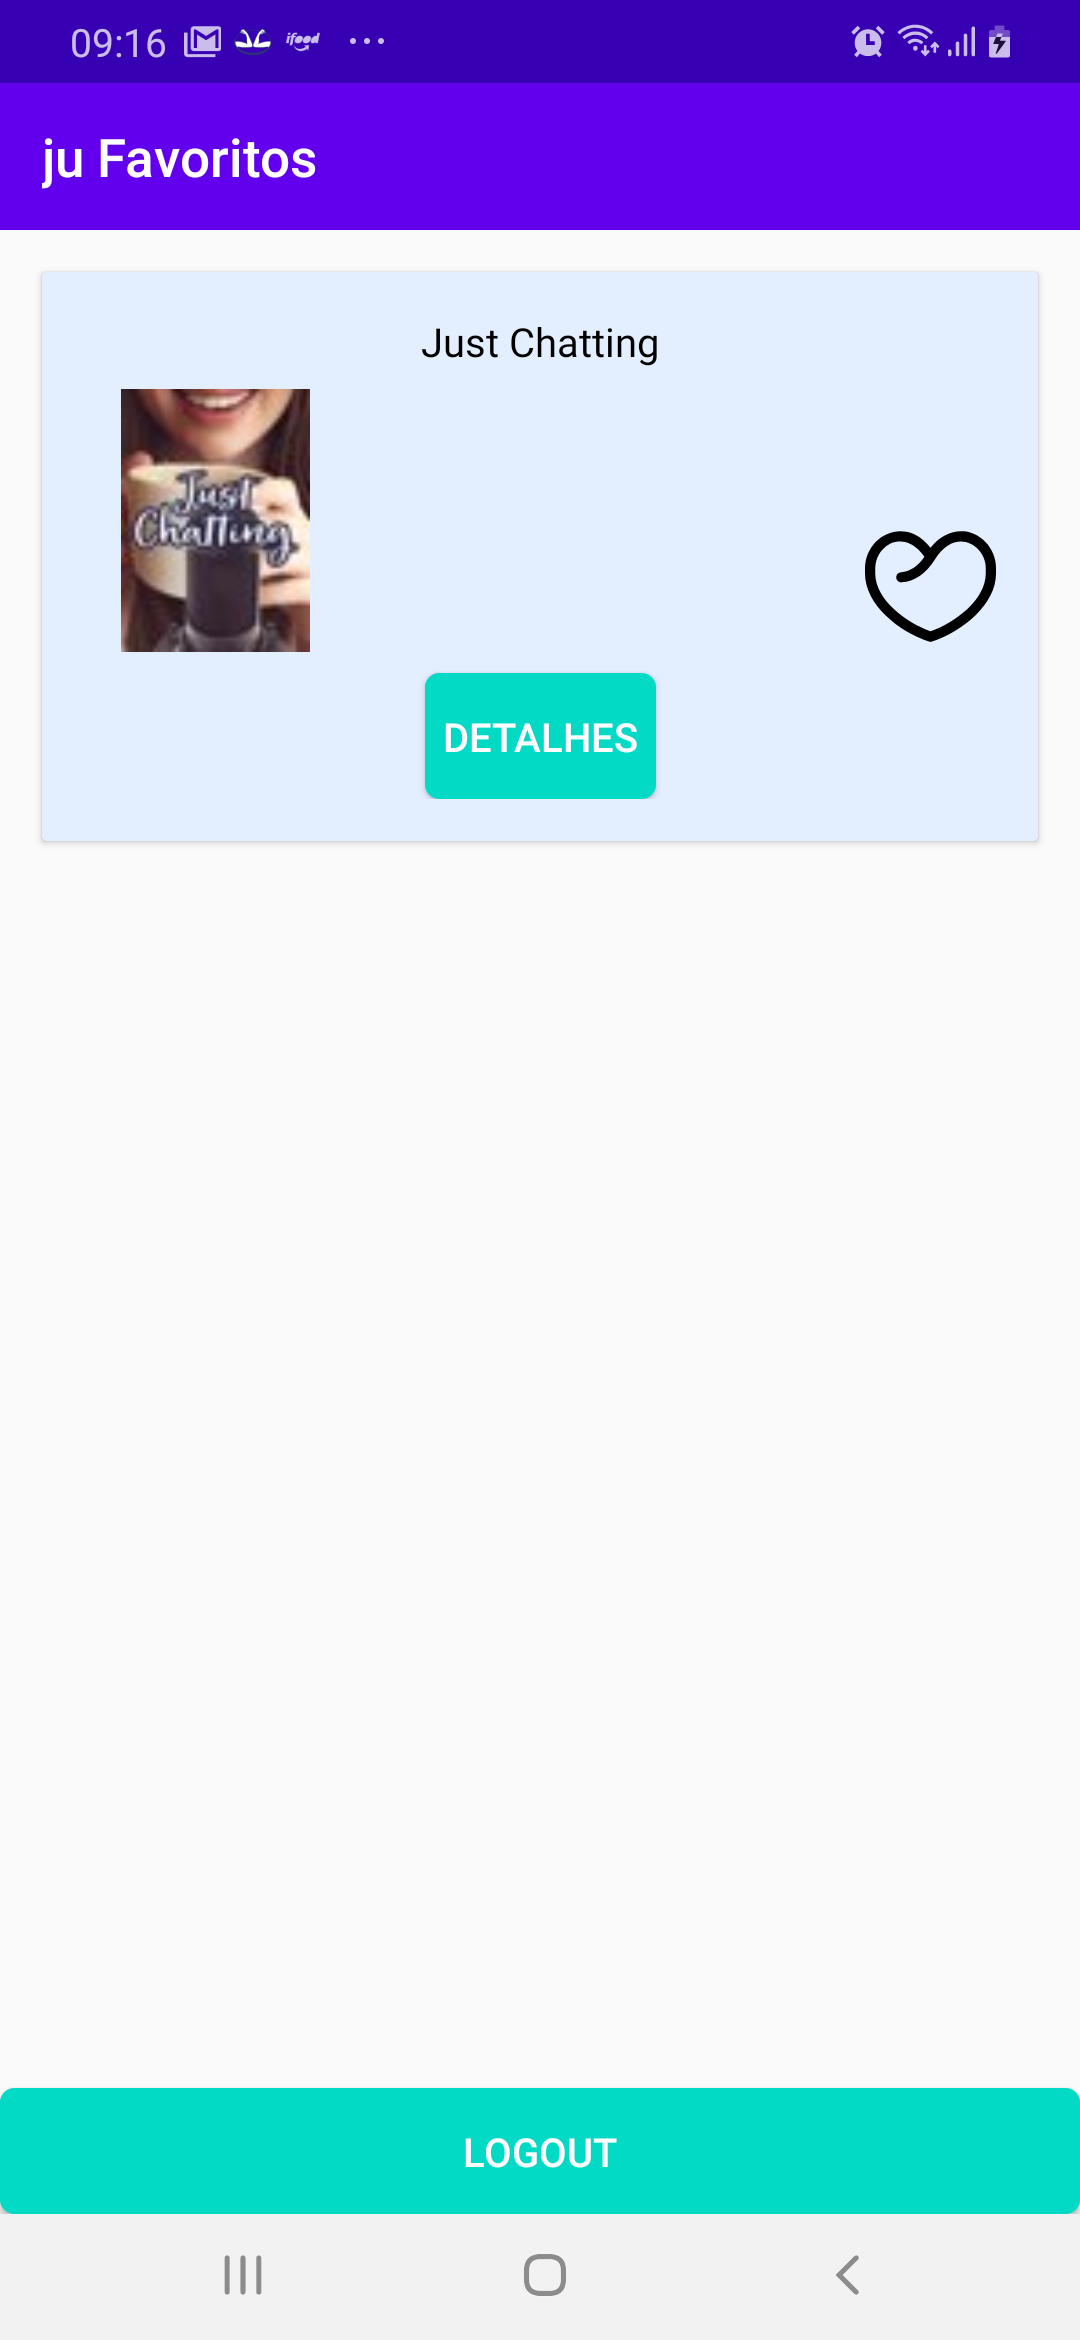
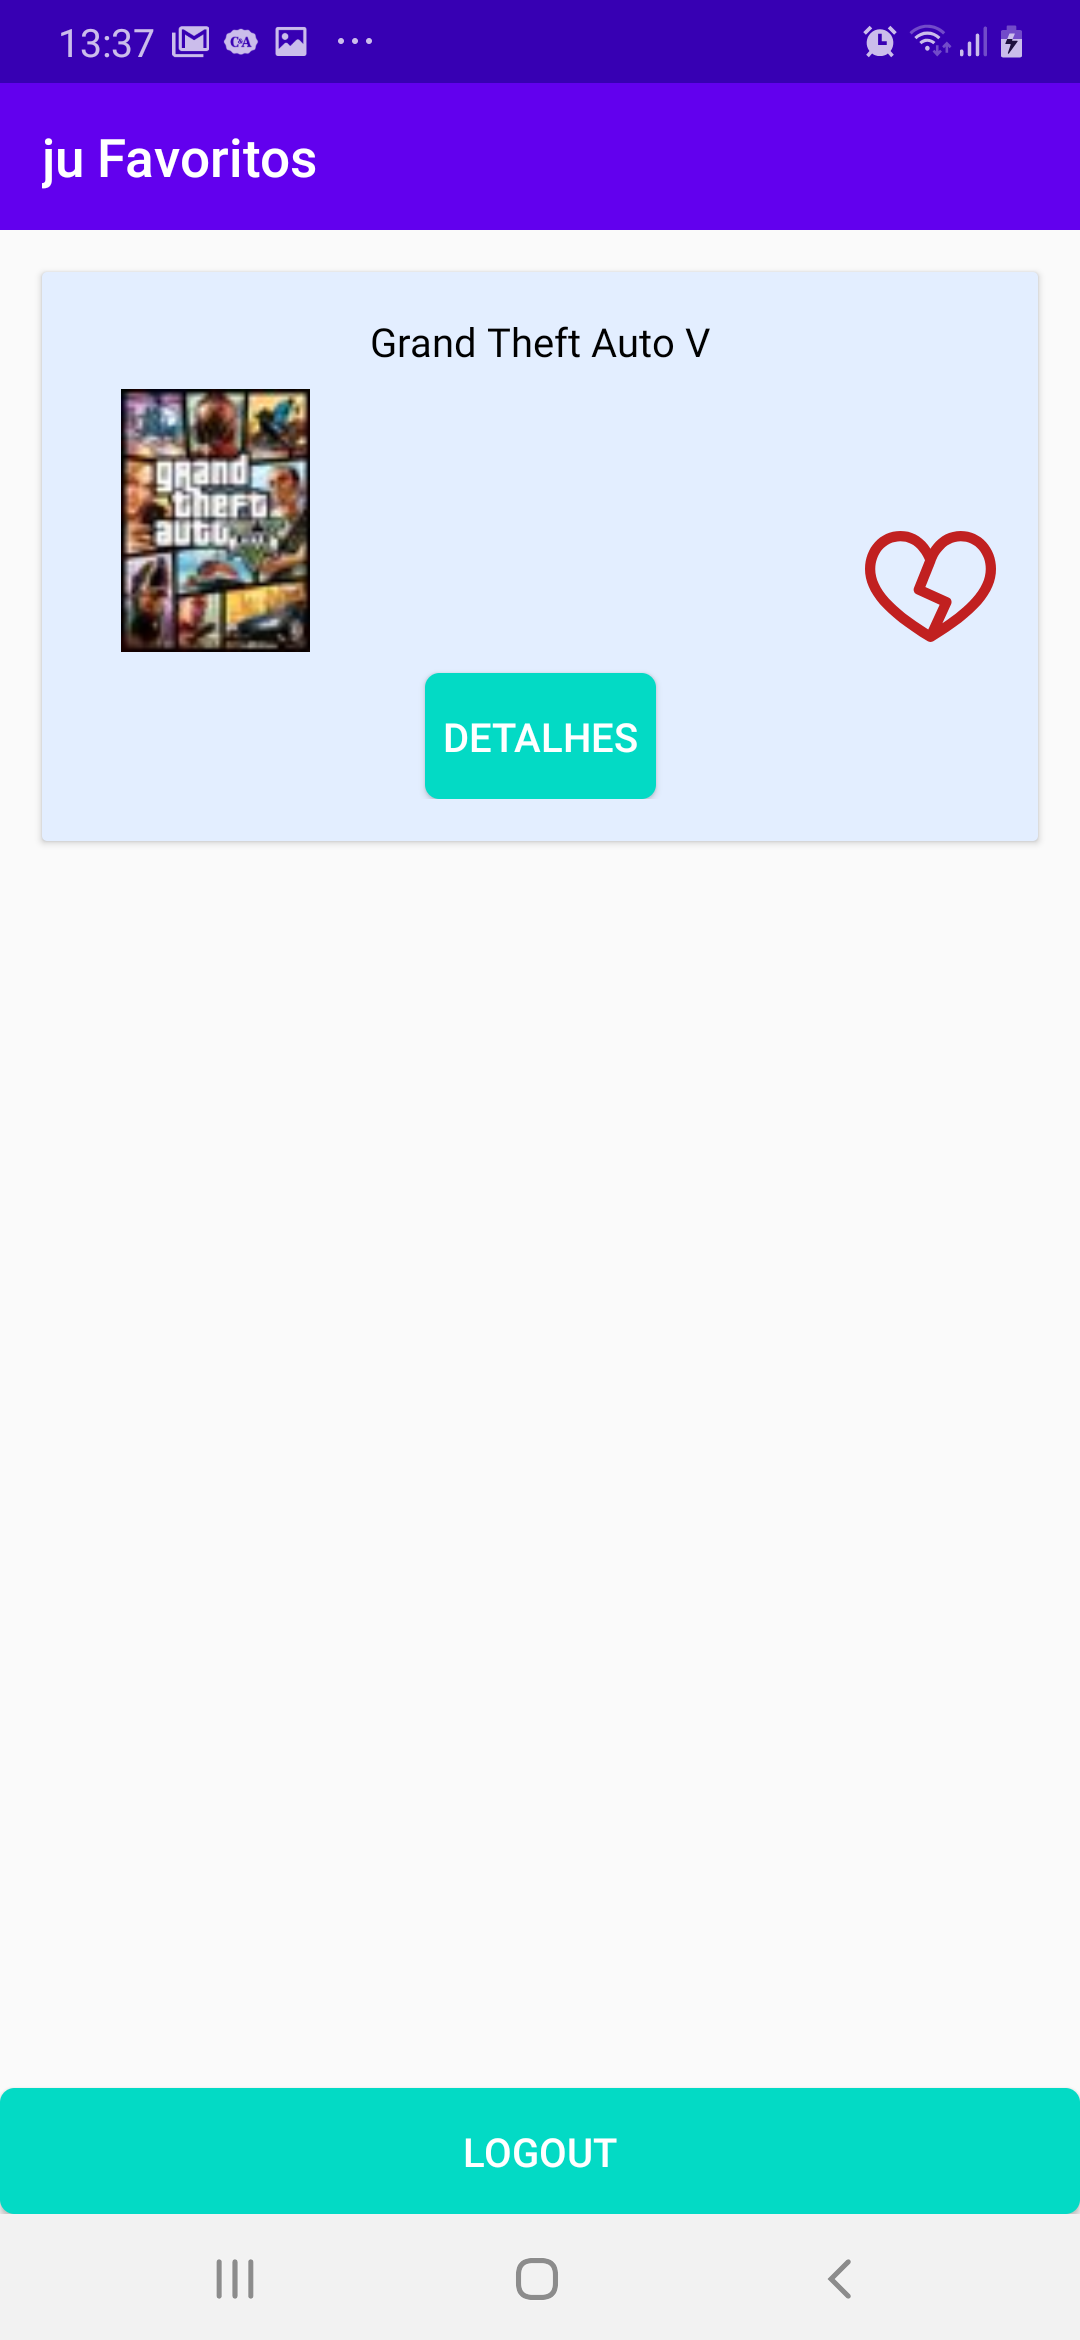
*mudança no icone de "desfavoritar"

diff --git a/app/src/main/java/com/example/evinochallenge/view/GameAdapter.kt b/app/src/main/java/com/example/evinochallenge/view/GameAdapter.kt
@@ -19,12 +19,13 @@ import kotlinx.android.synthetic.main.item_game.view.*
 class GameAdapter(
     val items: ArrayList<Top?>,
     val context: Context,
+    val favorites: Boolean,
     val clickListener: (Top?) -> Unit
 ) :
     RecyclerView.Adapter<RecyclerView.ViewHolder>() {
 
     override fun onBindViewHolder(p0: RecyclerView.ViewHolder, p1: Int) {
-        (p0 as FactViewHolder).bind(items[p1], clickListener)
+        (p0 as FactViewHolder).bind(items[p1], clickListener, favorites)
     }
 
     override fun onCreateViewHolder(p0: ViewGroup, p1: Int): FactViewHolder {
@@ -43,7 +44,7 @@ class GameAdapter(
 
     class FactViewHolder(view: View) : RecyclerView.ViewHolder(view) {
         val itemVieww = view
-        fun bind(part: Top?, clickListener: (Top?) -> Unit) {
+        fun bind(part: Top?, clickListener: (Top?) -> Unit, favorites: Boolean) {
 
             itemVieww.tv_item_game_name.text = part?.game?.localized_name
             itemVieww.tv_item_game_canais_numero.text = part?.channels.toString()
@@ -61,6 +62,10 @@ class GameAdapter(
             val x = 200 * adapterPosition
             animZoomin.startOffset = x.toLong()
             layout.setAnimation(animZoomin)
+
+            if (favorites) {
+                itemVieww.ib_item_game_fav.setBackgroundResource(R.drawable.ic_fav_broken)
+            }
 
             itemVieww.ib_item_game_fav.setOnClickListener {
                 if (Build.VERSION.SDK_INT >= Build.VERSION_CODES.LOLLIPOP) {

diff --git a/app/src/main/java/com/example/evinochallenge/view/TopGamesActivity.kt b/app/src/main/java/com/example/evinochallenge/view/TopGamesActivity.kt
@@ -73,8 +73,8 @@ class TopGamesActivity : AppCompatActivity(),
     override fun error(resposta: String?) {
         Toast.makeText(
             baseContext,
-            resposta,
-            Toast.LENGTH_SHORT
+            R.string.warningErroAoCarregarJogos,
+            Toast.LENGTH_LONG
         ).show()
     }
 
@@ -89,7 +89,7 @@ class TopGamesActivity : AppCompatActivity(),
     private fun setRecycler(gamesList: ArrayList<Top?>) {
         rvResults = rv_top_games_lista
         rvResults.adapter =
-            GameAdapter(gamesList, this, { partItem: Top? -> partItemClicked(partItem) })
+            GameAdapter(gamesList, this, false, { partItem: Top? -> partItemClicked(partItem) })
     }
 
     private fun partItemClicked(game: Top?) {

diff --git a/app/src/main/java/com/example/evinochallenge/view/FavoriteActivity.kt b/app/src/main/java/com/example/evinochallenge/view/FavoriteActivity.kt
@@ -56,7 +56,7 @@ class FavoriteActivity : AppCompatActivity(),
 
     private fun setRecycler(gamesList: ArrayList<Top?>) {
         rvResults.adapter =
-            GameAdapter(gamesList, this, { partItem: Top? -> partItemClicked(partItem) })
+            GameAdapter(gamesList, this, true, { partItem: Top? -> partItemClicked(partItem) })
     }
 
     private fun partItemClicked(game: Top?) {
